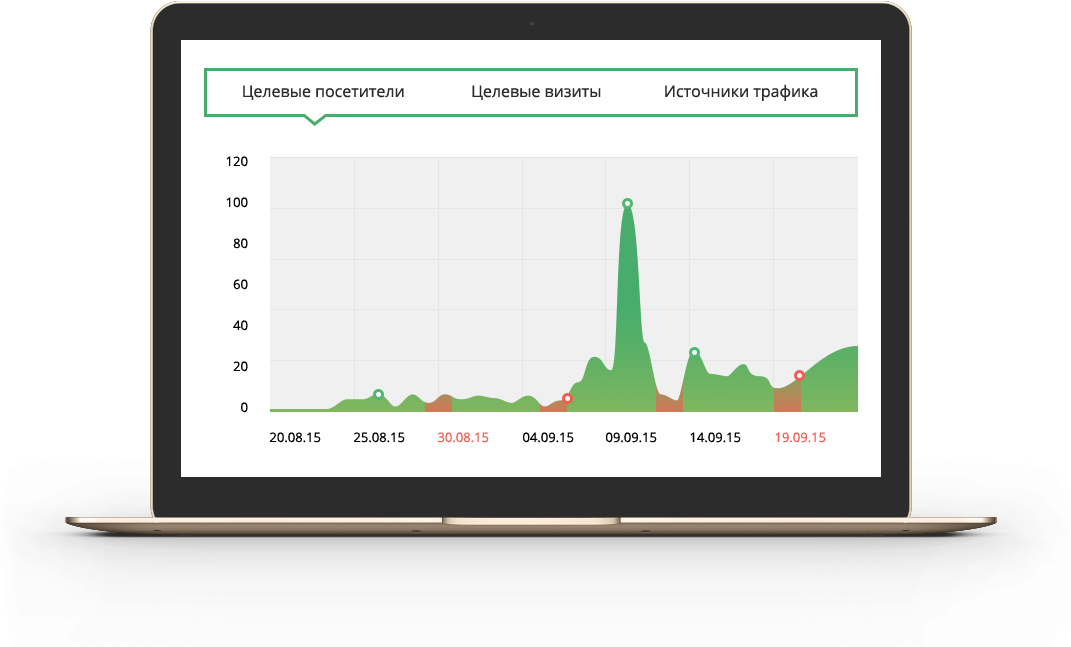
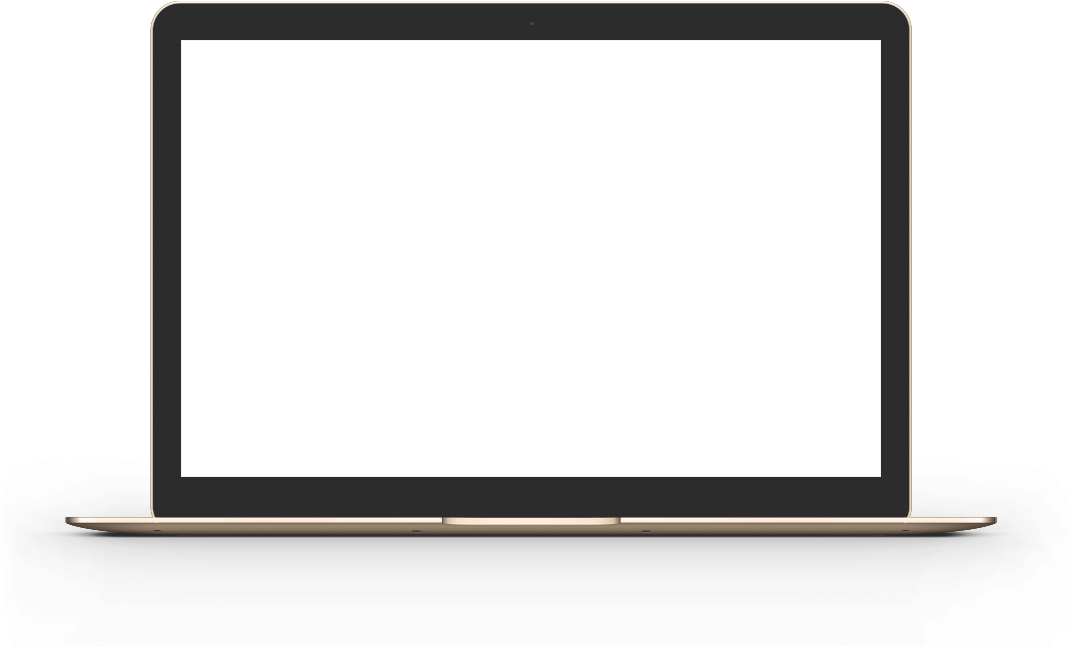
up

diff --git a/app/styles/components/_forms.scss b/app/styles/components/_forms.scss
@@ -73,13 +73,13 @@ input[type="checkbox"]:focus {
   display: block;
   width: 100%;
   height: $input-height-base; // Make inputs at least the height of their button counterpart (base line-height + padding + border)
-  padding: $padding-base-vertical $padding-base-horizontal;
+  padding: $padding-base-vertical $padding-base-horizontal / 2;
   font-size: $font-size-base;
   line-height: $line-height-base;
   color: $input-color;
   background-color: $input-bg;
   background-image: none; // Reset unusual Firefox-on-Android default style; see https://github.com/necolas/normalize.css/issues/214
-  border: 1px solid $input-border;
+  border: 3px solid $input-border;
   border-radius: $input-border-radius; // Note: This has no effect on <select>s in some browsers, due to the limited stylability of <select>s in CSS.
   //  @include box-shadow(8.5px 14.7px 32px rgba(44, 44, 44, 0.08));
 
@@ -135,7 +135,7 @@ input[type="search"] {
 
   label {
     min-height: $line-height-computed; // Ensure the input doesn't jump when there is no text
-    padding-left: 15px;
+    padding-left: 35px;
     margin-bottom: 0;
     font-weight: normal;
     cursor: pointer;
@@ -151,8 +151,8 @@ input[type="search"] {
       width: 24px;
       background: #fff;
       border: 3px solid $brand-success;
-      @include border-top-radius(3px);
-      @include border-bottom-radius(3px);
+      text-align: center;
+      line-height: 1.3;
     }
   }
 }
@@ -163,10 +163,12 @@ input[type="search"] {
     }
   }
 }
+.checkbox input[type="checkbox"],
+.radio input[type="radio"] {display: none;}
 
 .checkbox input[type="checkbox"]:checked + label:after {
   content: '\e800';
-  background: $brand-success;
+  //background: $brand-success;
 }
 .radio input[type="radio"]:checked + label:after {
 //  background: $brand-success;

diff --git a/app/styles/_variables.scss b/app/styles/_variables.scss
@@ -265,7 +265,7 @@ $input-border-radius:            $border-radius-base !default;
 $input-border-radius-large:      $border-radius-large !default;
 $input-border-radius-small:      $border-radius-small !default;
 
-$input-border-focus:             #66afe9 !default;
+$input-border-focus:             #54b365 !default;
 $input-color-placeholder:        #999 !default;
 
 $input-height-base:              50px !default;
@@ -274,7 +274,7 @@ $input-height-small:             (floor($font-size-small * $line-height-small) +
 
 
 $input-group-addon-bg:           $lighter !default;
-$input-group-addon-border-color: $brand-info !default;
+$input-group-addon-border-color: transparent !default;
 
 
 $state-success-text:             $brand-success !default;
@@ -293,7 +293,7 @@ $state-danger-text:              $brand-danger !default;
 $state-danger-bg:                #f2dede !default;
 $state-danger-border:            darken(adjust-hue($state-danger-bg, -10), 5%) !default;
 
-$form-group-margin-bottom:       15px !default;
+$form-group-margin-bottom:       10px !default;
 
 $legend-color:                   $gray-dark !default;
 $legend-border-color:            #e5e5e5 !default;

diff --git a/app/styles/vendors/_plugins.scss b/app/styles/vendors/_plugins.scss
@@ -1,0 +1,50 @@
+//
+// Plugins
+// ------------------------------------
+
+.tabs {
+  padding-top: 56.25%;
+  background-image: url("../images/notebook.png");
+  //position: relative;
+  background-size: cover;
+  background-position: center center;
+}
+.tabs_inner {
+  padding: 70px 155px 208px 146px;
+  position: relative;
+  z-index: 1;
+  &-img {
+    position: absolute;
+    left: 0;
+    top: 0;
+    z-index: 0;
+  }
+}
+.tabs__caption {
+  border: 3px solid $brand-success;
+  padding: 10px;
+  margin-bottom: 30px;
+  color: #2c2c2c;
+  li {
+    cursor: pointer;
+    padding: 0 25px;
+    position: relative;
+    &.active:after {
+      content: '';
+      position: absolute;
+      background: url("../images/angle.png") no-repeat center;
+      width: 22px;
+      height: 12px;
+      bottom: -22px;
+      left: 0;
+      right: 0;
+      margin: auto;
+    }
+  }
+}
+.tabs__content {
+  display: none;
+}
+.tabs__content.active {
+  display: block;
+}

diff --git a/app/scripts/main.js b/app/scripts/main.js
@@ -29,6 +29,24 @@ $(window).load(function() {
     //    });
     //});
 
+    $(".fancybox").fancybox({
+        maxWidth	: 523,
+        maxHeight	: 744,
+        width		: '70%',
+        height		: '70%'
+    });
+
+
+    (function($) {
+        $(function() {
+            $('ul.tabs__caption').on('click', 'li:not(.active)', function() {
+                $(this)
+                    .addClass('active').siblings().removeClass('active')
+                    .closest('div.tabs').find('div.tabs__content').removeClass('active').eq($(this).index()).addClass('active');
+            });
+        });
+    })(jQuery);
+
     function initMap() {
         var myLatLng =  new google.maps.LatLng(56.994355, 40.9750783);
         // Create a map object and specify the DOM element for display.

diff --git a/app/styles/components/_input-groups.scss b/app/styles/components/_input-groups.scss
@@ -39,13 +39,12 @@
   .input-group-btn {
     width: 1%;
     white-space: nowrap;
-    vertical-align: middle; // Match the inputs
+    vertical-align: top; // Match the inputs
   }
 
   // Text input groups
   // -------------------------
   .input-group-addon {
-    padding: $padding-base-vertical 5px $padding-base-vertical 15px;
     font-size: $font-size-base;
     font-weight: normal;
     line-height: 1;
@@ -71,6 +70,11 @@
     input[type="radio"],
     input[type="checkbox"] {
       margin-top: 0;
+    }
+    i {
+      background-color: #f7f7f7;
+      padding: 17px 5px 17px 15px;
+      display: block;
     }
   }
 

diff --git a/app/styles/layout/_header.scss b/app/styles/layout/_header.scss
@@ -56,3 +56,16 @@
     z-index: 1;
   }
 }
+
+.fancybox-outer {
+  .form-control {
+    background-color: #f7f7f7;
+    box-shadow: none;
+  }
+  .form-group {
+    margin-right: 0;
+  }
+  .input-group-addon i {
+    background-color: #f7f7f7;
+  }
+}

diff --git a/app/styles/base/_type.scss b/app/styles/base/_type.scss
@@ -143,7 +143,7 @@ ol {
 // Inline turns list items into inline-block
 .list--inline {
   @include list-unstyled;
-  margin-left: -5px;
+//  margin-left: -5px;
 
   > li {
     display: inline-block;

diff --git a/app/styles/themes/_glob.scss b/app/styles/themes/_glob.scss
@@ -1,3 +1,10 @@
 //
 // Themes
 // ------------------------------------
+
+@media (min-width: $screen-md-min) {
+  .form_feedback {
+    width: 466px;
+    padding: 10px 70px;
+  }
+}

diff --git a/app/styles/vendors/_glob.scss b/app/styles/vendors/_glob.scss
@@ -6,3 +6,4 @@
 @import "_animations";
 @import "_margin";
 @import "_padding";
+@import "_plugins";
